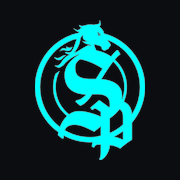
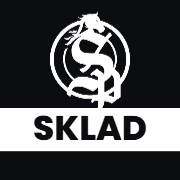
Add files via upload

diff --git a/index.html b/index.html
@@ -6,8 +6,8 @@
 <title>Sklad oblečení – FK Slovany Pardubice</title>
 <link rel="manifest" href="manifest.json">
 <meta name="theme-color" content="#0b0d10">
-<link rel="icon" href="icon-192.png" type="image/png">
-<link rel="apple-touch-icon" href="apple-touch-icon.png">
+<link rel="icon" href="icon-192.png?v=2" type="image/png">
+<link rel="apple-touch-icon" href="apple-touch-icon.png?v=2">
 <link rel="stylesheet" href="https://fonts.googleapis.com/css2?family=Poppins:wght@400;500;600;700&display=swap">
 <script src="https://accounts.google.com/gsi/client" async defer></script>
 <style>
@@ -147,7 +147,7 @@ var CONFIG = {
   ADMIN_EMAILS: ['hoseck.petr@gmail.com'],
   STAFF_EMAILS: ['fkslovany@gmail.com']
 };
-var APP_VERSION = '2. 10. 2026 – legenda skladu';
+var APP_VERSION = '2. 10. 2026 – nová ikona (iPhone i Android)';
 var DEMO = /[?&]demo=1/.test(location.search);
 
 var SIZES = ['4XS','3XS','2XS','XS','S','M','L','XL','XXL'];
